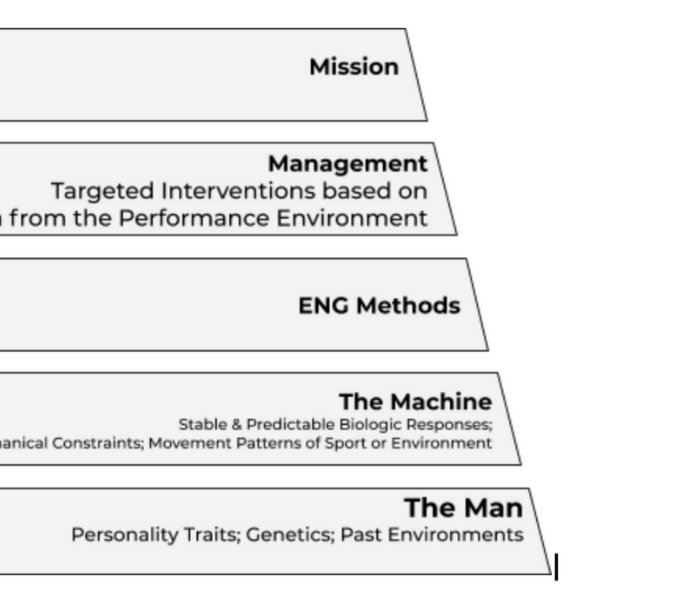
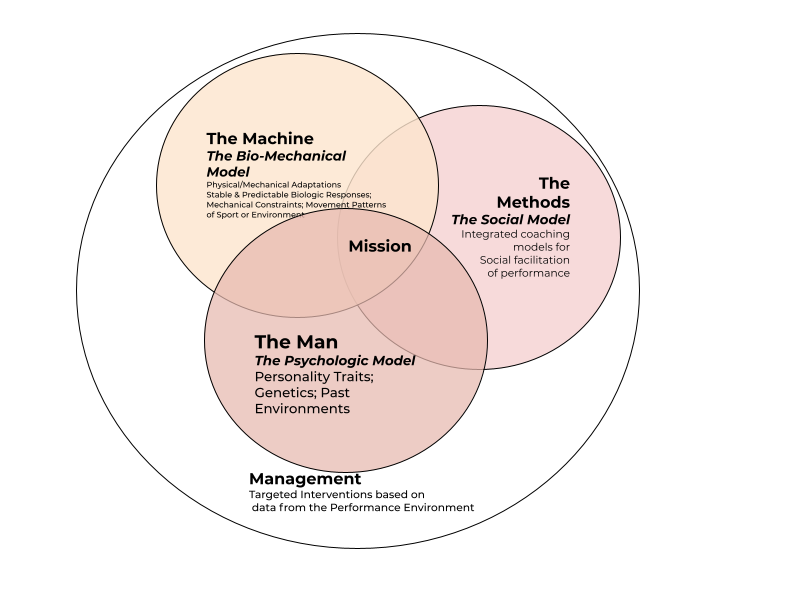
update index

diff --git a/index.html b/index.html
@@ -65,7 +65,13 @@
                         <div class="left header-form-heading-top res-header-heading-bottom">
                             <p class="left header-head1 header-head1-bottom">Kate Engard, MS, CSCS</p>
 
-                            <p class="header-text-bottom ls">I'm a professional strength and speed coach with a certificate in data analytics and global sports management.  I'm old school workethic meets new school tech. </p>
+                            <p class="header-text-bottom ls">
+                                Dedicated professional with over a decade of experience leading diverse populations in a fast-paced high-
+                                performance environment. I have a passion for improving performance-based outcomes and optimizing
+                                organizational management using data-informed decisions. I have a strong academic background in biology/
+                                kinesiology (BS/MS) and post grad professional certificates in global sports management and data analytics. I
+                                bring a very unique and highly integrated expertise to any performance environment.
+                            </p>
 
                         
                         </div>
@@ -211,6 +217,11 @@
     <section class="container-fluid section-space section-bg-1">
         <div class="container">
             <h1 class="center">ENG is the <i>only</i> Bio-Psycho-Social Approach to Player Analytics</h1>
+            <p> We help the organization realize its Mission(M5) by using experiential data from your employees/athletes 
+                to inform management practices that facilitate high performance environments.  This living model is realized 
+                through the implementation of ENG proprietary methods for training predictable biologic systems and documenting 
+                the human experiential expression of those environmentals stressors on the individual or a group within the same 
+                performance environment. </p>
             <div class="row">
                 <!--=============== COLUMN-1 ==================-->
                 <div class="col-md-4 res-services-center common-res-bottom common-res-bottom-1">
@@ -218,18 +229,21 @@
                         <div class="right image-bottom res-text-center-single">
                             <img src="images/64x64x15.png" alt="icon" />
                         </div>
-                        <h3 class="right h3-bottom"><a href="#">template design</a></h3>
-                        <p class="right">Lorem ipsum dolor sit amet, consectetur adipiscing elit. Nam pharetra efficitur diam, vel sagittis ipsum. Curabitur eleifend, risus id sollicitudin pretium, massa ex tristique velit.</p>
+                        <h3 class="right h3-bottom"><a href="#">The Mission</a></h3>
+                        <p class="right">VALUES: The mission is guiding value set of the organization. It is reflected in the 
+                            both the implementatin and value analysis of a
+                            all models utilized for performance.</p>
                     </div>
 
                     <div class="services-row-space">
                         <div class="right image-bottom res-text-center-single">
                             <img src="images/64x64x16.png" alt="icon" />
                         </div>
-                        <h3 class="right h3-bottom"><a href="#">development</a></h3>
-                        <p class="right">Lorem ipsum dolor sit amet, consectetur adipiscing elit. Nam pharetra efficitur diam, vel sagittis ipsum. Curabitur eleifend, risus id sollicitudin pretium, massa ex tristique velit.</p>
+                        <h3 class="right h3-bottom"><a href="#">Management</a></h3>
+                        <p class="right">PERSONNEL: Management synthesize information to provide targeted intervention strategies 
+                            based on data from the performance environment.</p>
                     </div>
-
+                <!-----service option 
                     <div class="services-row-space">
                         <div class="right image-bottom res-text-center-single">
                             <img src="images/64x64x17.png" alt="icon" />
@@ -238,12 +252,12 @@
                         <p class="right">Lorem ipsum dolor sit amet, consectetur adipiscing elit. Nam pharetra efficitur diam, vel sagittis ipsum. Curabitur eleifend, risus id sollicitudin pretium</p>
                     </div>
                 </div>
-
+                ------->
 
                 <!--=============== COLUMN-2 ==================-->
                 <div class="col-md-4 common-res-bottom common-res-bottom-1">
                     <div class="center">
-                        <img src="images/engard_systems.png" alt="image" class="img-responsive image-center image-grow" />
+                        <img src="images/5m.png" alt="image" class="img-responsive image-center image-grow" />
                     </div>
                 </div>
 
@@ -253,24 +267,31 @@
                         <div class="left image-bottom res-text-center-single">
                             <img src="images/64x64x18.png" alt="icon" />
                         </div>
-                        <h3 class="left h3-bottom"><a href="#">email design</a></h3>
-                        <p class="left">Lorem ipsum dolor sit amet, consectetur adipiscing elit. Nam pharetra efficitur diam, vel sagittis ipsum. Curabitur eleifend, risus id sollicitudin pretium, massa ex tristique velit.</p>
+                        <h3 class="left h3-bottom"><a href="#">The Methods: A Sociological Approach to Team Dynamics</a></h3>
+                        <p class="left">
+                            Optimized coaching models to enhance social facilitation of the performance environment.
+                        </p>
                     </div>
 
                     <div class="services-row-space">
                         <div class="left image-bottom res-text-center-single">
                             <img src="images/64x64x19.png" alt="icon" />
                         </div>
-                        <h3 class="left h3-bottom"><a href="#">app development</a></h3>
-                        <p class="left">Lorem ipsum dolor sit amet, consectetur adipiscing elit. Nam pharetra efficitur diam, vel sagittis ipsum. Curabitur eleifend, risus id sollicitudin pretium, massa ex tristique velit.</p>
+                        <h3 class="left h3-bottom"><a href="#">The Man: A Psychological Model For Success </a></h3>
+                        <p class="left">
+                            The management of personality traits, and exposute to past environments to enhance the mental performance
+                            </p>
                     </div>
 
                     <div class="services-row-space">
                         <div class="left image-bottom res-text-center-single">
                             <img src="images/64x64x20.png" alt="icon" />
                         </div>
-                        <h3 class="left h3-bottom"><a href="#">branding</a></h3>
-                        <p class="left">Lorem ipsum dolor sit amet, consectetur adipiscing elit. Nam pharetra efficitur diam, vel sagittis ipsum. Curabitur eleifend, risus id sollicitudin pretium</p>
+                        <h3 class="left h3-bottom"><a href="#">The Machine: A Biomechanical Model For Success</a></h3>
+                        <p class="left">
+                            The physical and mechanical adaptations and 
+                            constraints to the sporting environment reflected in a stable and predicitible biologic model. 
+                        </p>
                     </div>
                 </div>
 
@@ -325,7 +346,7 @@
             <div class="row">
                 <div class="col-md-6 col-sm-12">
                     <div class="left res-image-bottom res-image-bottom-1">
-                        <img src="images/5m.png" alt="image" class="img-responsive" />
+                        <img src="images/engard_systems.png" alt="image" class="img-responsive" />
                     </div>
                 </div>
 
@@ -633,10 +654,13 @@
                     <iframe class="venue-map" src="https://www.google.com/maps/embed?pb=!1m18!1m12!1m3!1d3330.685430704292!2d-111.97851798472018!3d33.405370158987374!2m3!1f0!2f0!3f0!3m2!1i1024!2i768!4f13.1!3m3!1m2!1s0x872b0f9ad9f87a4d%3A0x362ecbf16f5976d!2sEngard%20Athletics!5e0!3m2!1sen!2sus!4v1589064182474!5m2!1sen!2sus"></iframe>
                 </div>
 
-                <div class="col-md-4 col-sm-6">
+                <!------Address------->
+                <!-------
+                    <div class="col-md-4 col-sm-6">
                     <h3 class="center h3-bottom">address</h3>
                     <p class="center ls adress-line-bottom">2231 S 48th St. #102 </p>
                     <p class="center footer-row-space ls">Tempe, AZ 85282</p>
+                ----->
 
                     <h3 class="center h3-bottom">Email </h3>
                     <p class="center footer-row-space ls"> <a href="#">training@engardathletics.com</a>

diff --git a/demo-2.html b/demo-2.html
@@ -27,7 +27,7 @@
 
 
     <!-- CUSTOM CSS -->
-    <link rel="stylesheet" type="text/css" href="css/custom/style_blue.css">
+    <link rel="stylesheet" type="text/css" href="css/custom/style_red.css">
     <!-- HTML5 shim and Respond.js for IE8 support of HTML5 elements and media queries -->
     <!-- WARNING: Respond.js doesn't work if you view the page via file:// -->
     <!--[if lt IE 9]>
